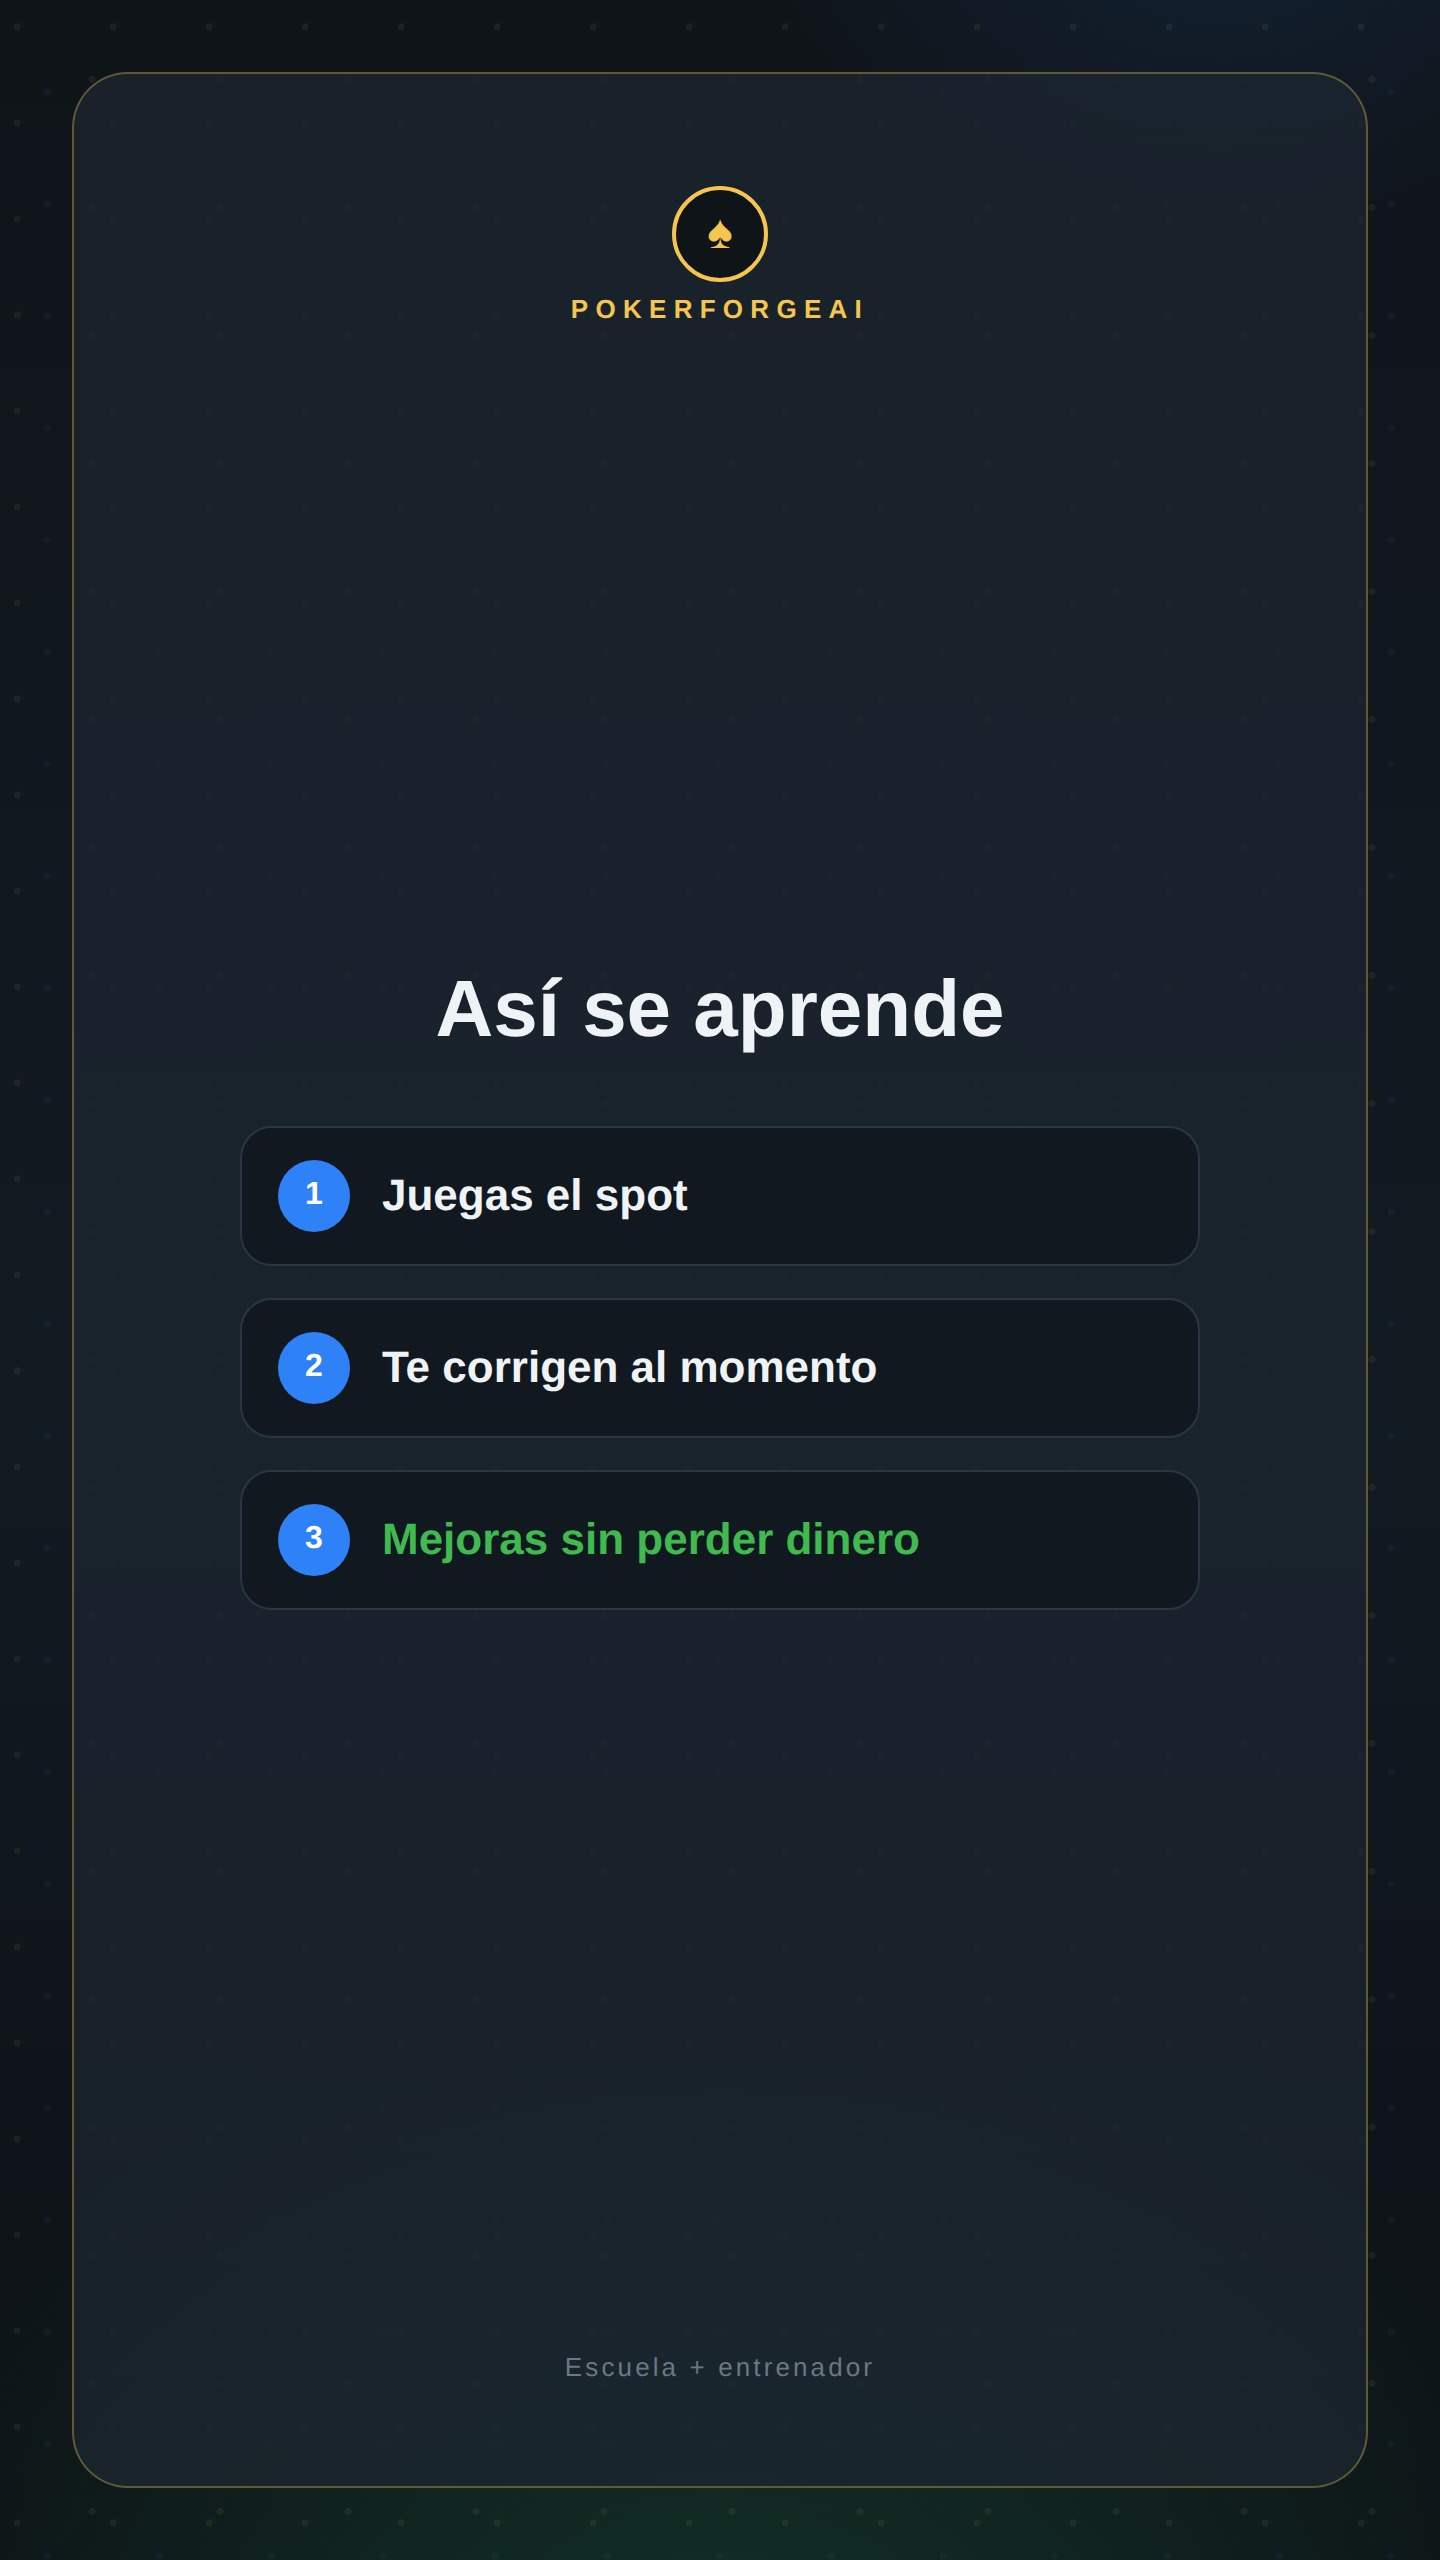
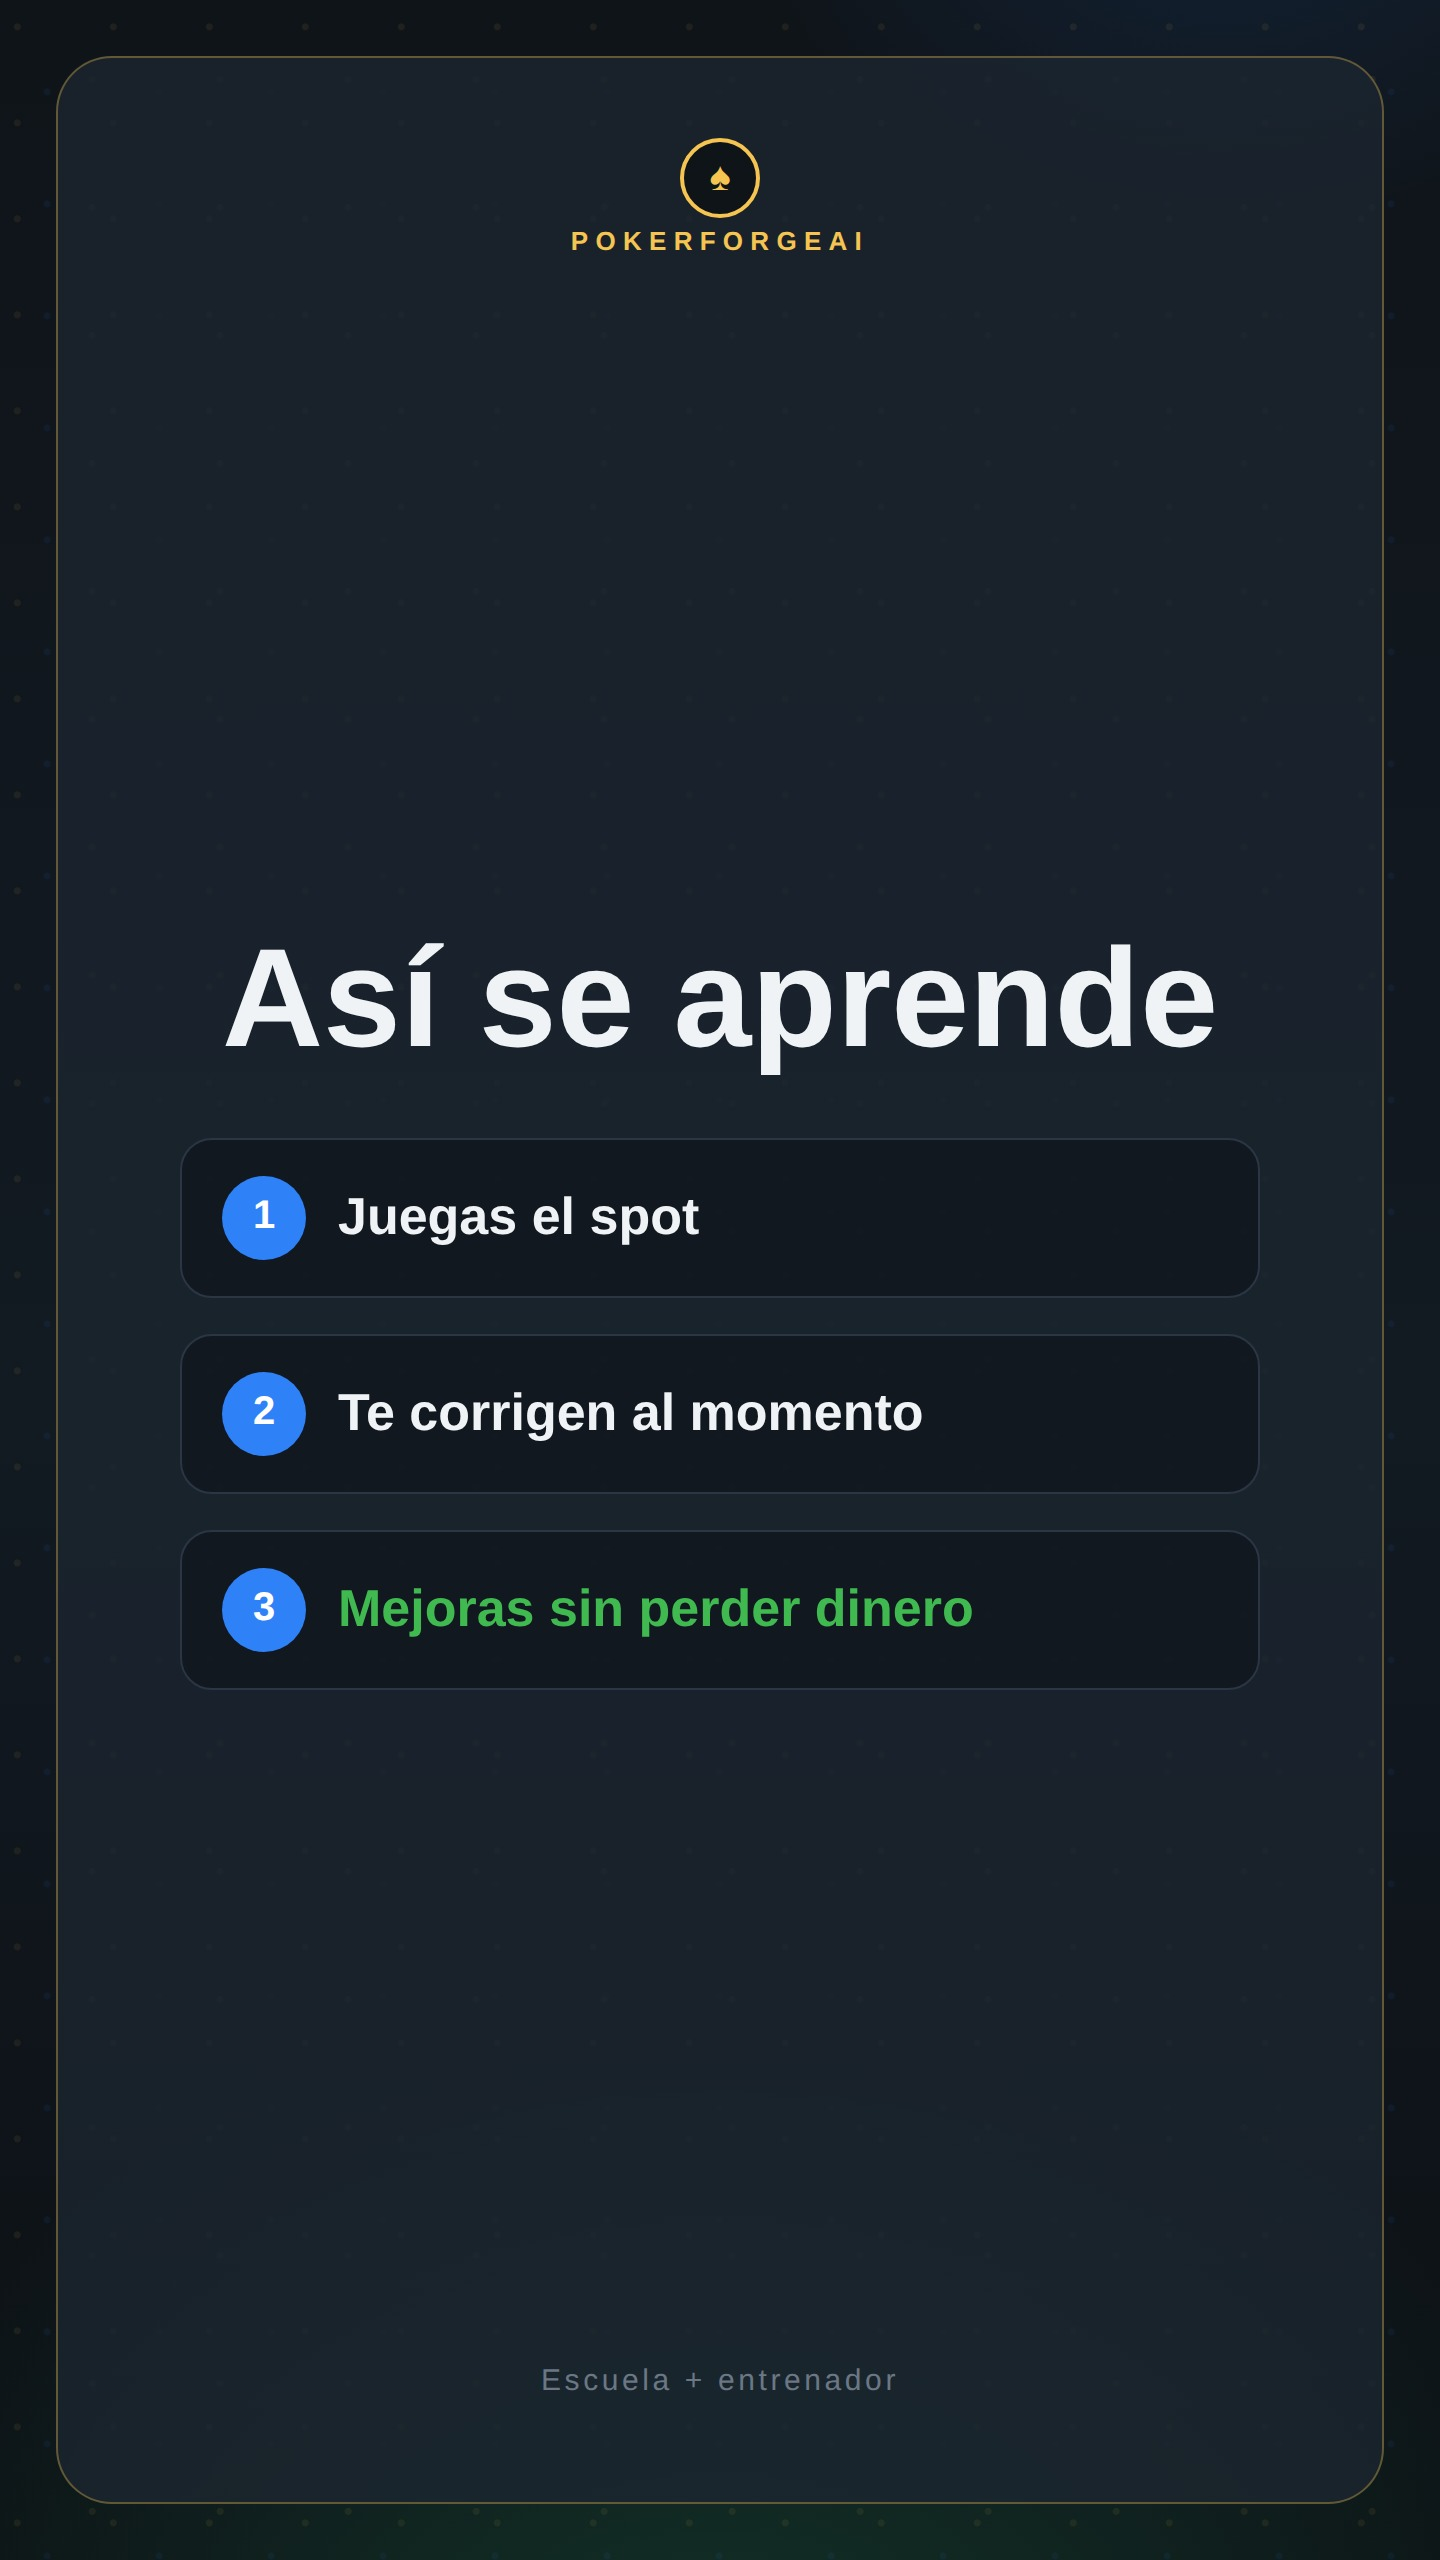
Enlarge reel frame typography and drop “reel de prueba” copy.
Regenerates all 9:16 assets with bigger headlines/CTA and cleans titles.

diff --git a/tools/instagram-reel-aprende-cero-assets.js b/tools/instagram-reel-aprende-cero-assets.js
@@ -48,40 +48,40 @@ body {
   background-size: 48px 48px, 64px 64px, 56px 56px;
 }
 .frame {
-  position: absolute; inset: 36px;
+  position: absolute; inset: 28px;
   border: 1.5px solid #f5c45155;
   border-radius: 28px;
   background: #1c2530cc;
   display: flex; flex-direction: column; align-items: center; justify-content: center;
-  padding: 48px 40px 40px;
+  padding: 100px 28px 72px;
   text-align: center;
 }
 .brand-top {
-  position: absolute; top: 56px; left: 0; right: 0;
-  display: flex; flex-direction: column; align-items: center; gap: 6px;
+  position: absolute; top: 40px; left: 0; right: 0;
+  display: flex; flex-direction: column; align-items: center; gap: 4px;
 }
 .spade {
-  width: 48px; height: 48px; border-radius: 50%;
+  width: 40px; height: 40px; border-radius: 50%;
   border: 2px solid #f5c451;
   display: grid; place-items: center;
-  font-size: 24px; color: #f5c451; background: #0f1419;
+  font-size: 20px; color: #f5c451; background: #0f1419;
 }
 .brand-name {
   font-size: 13px; letter-spacing: 0.28em; color: #f5c451; font-weight: 700;
 }
 .eyebrow {
-  font-size: 15px; letter-spacing: 0.22em; text-transform: uppercase;
-  color: #9aa7b5; margin-bottom: 22px; font-weight: 600;
+  font-size: 20px; letter-spacing: 0.22em; text-transform: uppercase;
+  color: #9aa7b5; margin-bottom: 18px; font-weight: 700;
 }
 .headline {
-  font-size: 52px; font-weight: 800; line-height: 1.12;
-  max-width: 560px;
+  font-size: 70px; font-weight: 800; line-height: 1.05;
+  max-width: 640px;
 }
-.headline.lg { font-size: 58px; }
-.headline.sm { font-size: 40px; }
+.headline.lg { font-size: 88px; }
+.headline.sm { font-size: 58px; }
 .sub {
-  margin-top: 28px; font-size: 22px; line-height: 1.35; color: #9aa7b5;
-  max-width: 520px;
+  margin-top: 24px; font-size: 30px; line-height: 1.28; color: #c5ced8;
+  max-width: 580px; font-weight: 700;
 }
 .gold { color: #f5c451; }
 .blue { color: #2f81f7; }
@@ -98,28 +98,28 @@ body {
 .pill {
   margin-top: 28px;
   display: inline-flex; align-items: center; gap: 10px;
-  padding: 14px 22px; border-radius: 999px;
-  background: #2f81f722; border: 1.5px solid #2f81f7;
-  color: #f0f3f6; font-size: 20px; font-weight: 700; letter-spacing: 0.04em;
+  padding: 20px 30px; border-radius: 999px;
+  background: #2f81f722; border: 2px solid #2f81f7;
+  color: #f0f3f6; font-size: 30px; font-weight: 800; letter-spacing: 0.04em;
 }
 .steps {
-  margin-top: 36px; display: flex; flex-direction: column; gap: 16px; width: 100%;
-  max-width: 480px;
+  margin-top: 28px; display: flex; flex-direction: column; gap: 16px; width: 100%;
+  max-width: 580px;
 }
 .step {
   display: flex; align-items: center; gap: 16px;
   background: #0f1419aa; border: 1px solid #2a3644;
-  border-radius: 16px; padding: 16px 18px; text-align: left;
+  border-radius: 16px; padding: 20px 22px; text-align: left;
 }
 .step-n {
-  width: 36px; height: 36px; border-radius: 50%;
-  background: #2f81f7; color: #fff; font-weight: 800;
+  width: 48px; height: 48px; border-radius: 50%;
+  background: #2f81f7; color: #fff; font-weight: 800; font-size: 22px;
   display: grid; place-items: center; flex-shrink: 0;
 }
-.step-t { font-size: 22px; font-weight: 700; }
+.step-t { font-size: 28px; font-weight: 800; }
 .footer {
-  position: absolute; bottom: 52px; left: 0; right: 0;
-  font-size: 13px; letter-spacing: 0.12em; color: #6b7785; text-align: center;
+  position: absolute; bottom: 40px; left: 0; right: 0;
+  font-size: 15px; letter-spacing: 0.12em; color: #6b7785; text-align: center;
 }
 </style></head><body>
 <div class="bg"></div><div class="suits"></div>
@@ -143,7 +143,7 @@ const FRAMES = [
     file: 'hook-02-nunca-aprender.jpg',
     html: shell(`
       <div class="brand-top"><div class="spade">♠</div><div class="brand-name">POKERFORGEAI</div></div>
-      <div class="headline">…pero nunca te has parado a <span class="gold">aprender</span>.</div>
+      <div class="headline">…pero nunca<br>te has parado<br>a <span class="gold">aprender</span>.</div>
       <div class="rule"></div>
       <div class="sub">Ver partidas ≠ saber jugar.</div>
       <div class="footer">+18 · Juega responsablemente</div>
@@ -154,7 +154,7 @@ const FRAMES = [
     html: shell(`
       <div class="brand-top"><div class="spade">♠</div><div class="brand-name">POKERFORGEAI</div></div>
       <div class="eyebrow">Desde cero</div>
-      <div class="headline sm">Sin arriesgar<br><span class="gold">dinero</span></div>
+      <div class="headline">Sin arriesgar<br><span class="gold">dinero</span></div>
       <div class="rule"></div>
       <div class="sub">Entrenas manos reales.<br>Cero bankroll en juego.</div>
       <div class="footer">Práctica segura · Cash · Spins · Torneos</div>
@@ -164,7 +164,7 @@ const FRAMES = [
     file: 'beat-04-practica.jpg',
     html: shell(`
       <div class="brand-top"><div class="spade">♠</div><div class="brand-name">POKERFORGEAI</div></div>
-      <div class="headline sm">Así se aprende</div>
+      <div class="headline">Así se aprende</div>
       <div class="steps">
         <div class="step"><div class="step-n">1</div><div class="step-t">Juegas el spot</div></div>
         <div class="step"><div class="step-n">2</div><div class="step-t">Te corrigen al momento</div></div>
@@ -177,12 +177,12 @@ const FRAMES = [
     file: 'cta-05-mes-gratis.jpg',
     html: shell(`
       <div class="brand-top"><div class="spade">♠</div><div class="brand-name">POKERFORGEAI</div></div>
-      <div class="eyebrow">Oferta de prueba</div>
+      <div class="eyebrow">Regalo</div>
       <div class="headline lg"><span class="gold">1 MES</span><br>GRATIS</div>
       <div class="rule"></div>
       <div class="sub">Escribe por privado la palabra</div>
       <div class="pill"><span class="blue">DM</span> · APRENDER</div>
-      <div class="footer">Plazas de prueba · Respuesta por privado</div>
+      <div class="footer">Respuesta por privado</div>
     `),
   },
   {
@@ -190,7 +190,7 @@ const FRAMES = [
     html: shell(`
       <div class="spade" style="margin-bottom:14px">♠</div>
       <div class="brand-name" style="margin-bottom:28px">POKERFORGEAI</div>
-      <div class="headline sm">Desde cero.<br>Sin riesgo.<br><span class="gold">DM: APRENDER</span></div>
+      <div class="headline">Desde cero.<br>Sin riesgo.<br><span class="gold">DM: APRENDER</span></div>
       <div class="rule"></div>
       <div class="sub">Tu entrenador de póker en español</div>
       <div class="pill" style="margin-top:36px">1 mes gratis · pregunta por privado</div>

diff --git a/marketing/instagram/README.md b/marketing/instagram/README.md
@@ -13,7 +13,7 @@ Plan de promoción integral: plantillas, spots, carruseles, b-roll de la app y g
 | [`05-semana-1/`](05-semana-1/) | Paquete publicación semana 1 + captions |
 | [`06-calendario/`](06-calendario/) | Calendario detallado semanas 2–8 |
 | [`07-sprint-founder-oct/`](07-sprint-founder-oct/) | **Sprint 22 sep–5 oct**: Torneos IA · Reto IA Pro · FOUNDER 1 oct |
-| [`08-reel-aprende-cero/`](08-reel-aprende-cero/) | **Reel prueba**: cold audience · desde cero · DM = 1 mes gratis |
+| [`08-reel-aprende-cero/`](08-reel-aprende-cero/) | **Reel**: cold audience · desde cero · DM = 1 mes gratis |
 
 ## Orden de uso
 1. Configura bio + UTM (`05-semana-1/GUIONES_Y_CAPTIONS.md`)

diff --git a/marketing/instagram/08-reel-aprende-cero/GUION.md b/marketing/instagram/08-reel-aprende-cero/GUION.md
@@ -1,4 +1,4 @@
-# Reel de prueba — Aprende póker desde cero (DM = 1 mes gratis)
+# Reel — Aprende póker desde cero (DM = 1 mes gratis)
 
 **Objetivo:** captar gente a la que le gusta el póker pero nunca se ha parado a aprender en serio.  
 **Promesa:** aprender desde cero **sin arriesgar dinero**.  

diff --git a/marketing/instagram/08-reel-aprende-cero/README.md b/marketing/instagram/08-reel-aprende-cero/README.md
@@ -1,4 +1,4 @@
-# Lote 8 — Reel prueba: aprender desde cero (DM = 1 mes)
+# Lote 8 — Reel: aprender desde cero (DM = 1 mes)
 
 Captación cold: gente a la que le gusta el póker pero no se ha parado a estudiar.
 
